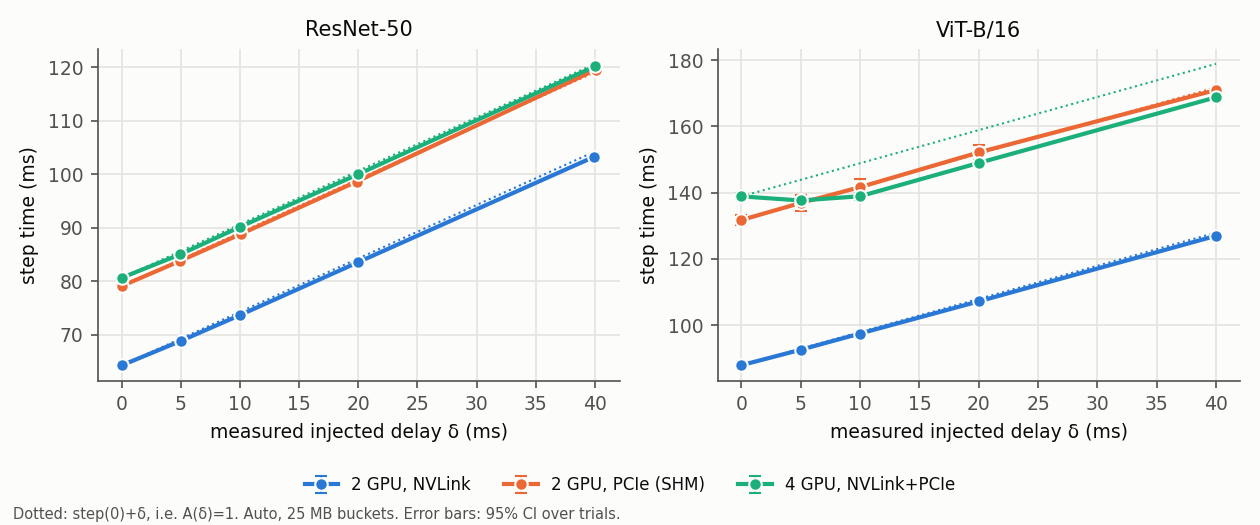
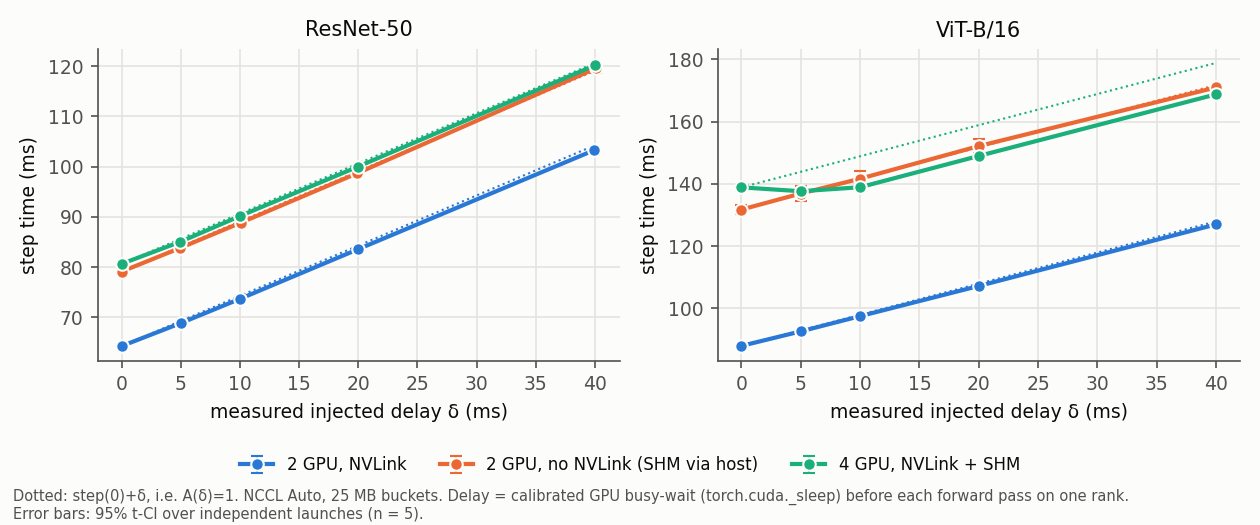
Correct figure labels and captions; plotted data unchanged
- Overlap figure: label the metric as the fraction of NCCL-kernel time
  concurrent with compute kernels, and state that it includes waiting
  and is not a measure of hidden data transfer.
- Energy figures: "GPU-board energy" (NVML, excludes CPU, DRAM, network,
  storage); the idle-subtracted variant is not communication energy.
- Settings: non-NVLink paths are labelled as NCCL SHM through host
  memory, not PCIe.
- Bucket-size figures: shade bucket sizes where NCCL Auto chose Tree
  for most gradient all-reduces (ViT-B/16, 128 MB: 70%), computed from
  nccl_verification.csv, and caption the confound.
- Timeline: the delay rank is labelled with its actual delay instead of
  "slow" at delta = 0; caption states it is one profiled window of one
  launch. Only accepted attempts are drawn.
- Slack-model figure: marked exploratory and post hoc; H3 figure notes
  the selection bias of the best-at-delta configuration.
- Error-bar captions state the number of launches behind each figure.

All points, error bars and timeline intervals were compared before and
after: the plotted data are identical.

diff --git a/hddp/figures.py b/hddp/figures.py
@@ -1,11 +1,12 @@
 """Figures from processed tables (+ raw timelines).   python -m hddp.figures --stage final  -> results/figures/
 
-Error bars are 95% t-confidence intervals across independent trials (launches). A panel with n=1 per point
-(e.g. profiler-derived overlap when only one trial was profiled) is drawn without error bars and says so.
+Error bars are 95% t-confidence intervals across independent trials (launches). Points with fewer than two
+trials have no interval and are drawn without an error bar; the caption then says so.
 """
 import argparse
 import csv
 import json
+import textwrap
 from pathlib import Path
 
 import matplotlib
@@ -19,7 +20,9 @@ CAT = ["#2a78d6", "#eb6834", "#1baf7a", "#eda100"]  # validated categorical orde
 SEQ5 = ["#86b6ef", "#5598e7", "#2a78d6", "#1c5cab", "#0d366b"]  # ordinal blue ramp (light -> dark)
 INK, INK2, GRID = "#0b0b0b", "#52514e", "#e4e3df"
 SETTINGS = ["2gpu_nvlink", "2gpu_pcie", "4gpu"]
-SET_LABEL = {"2gpu_nvlink": "2 GPU, NVLink", "2gpu_pcie": "2 GPU, PCIe (SHM)", "4gpu": "4 GPU, NVLink+PCIe"}
+# non-NVLink paths use NCCL's shared-memory transport through host memory (NCCL_P2P_LEVEL=NVL), not PCIe P2P
+SET_LABEL = {"2gpu_nvlink": "2 GPU, NVLink", "2gpu_pcie": "2 GPU, no NVLink (SHM via host)",
+             "4gpu": "4 GPU, NVLink + SHM"}
 MODEL_LABEL = {"resnet50": "ResNet-50", "vit_b_16": "ViT-B/16"}
 ALGOS = ["Auto", "Ring", "Tree"]
 
@@ -34,7 +37,9 @@ plt.rcParams.update({
 
 def load(stage, tag=""):
     rows = []
-    for r in csv.DictReader(open(PROC / f"{stage}_conditions.csv")):
+    with open(PROC / f"{stage}_conditions.csv", newline="") as f:
+        table = list(csv.DictReader(f))
+    for r in table:
         for k, v in r.items():
             if v == "":
                 r[k] = None
@@ -56,16 +61,20 @@ def series(ax, rows, x, y, color, label, ls="-", marker="o", xkey_mean=True):
     xv = lambda r: r[f"{x}_mean"] if xkey_mean and r.get(f"{x}_mean") is not None else r[x]
     rows = sorted([r for r in rows if r.get(f"{y}_mean") is not None], key=xv)
     if not rows:
-        return
+        return None
     xs = [xv(r) for r in rows]
     ys = [r[f"{y}_mean"] for r in rows]
-    es = [r.get(f"{y}_ci95") or 0 for r in rows]
+    es = [r.get(f"{y}_ci95") or 0 for r in rows]  # no interval (n < 2) -> no error bar
     ax.errorbar(xs, ys, yerr=es, color=color, label=label, ls=ls, marker=marker, capsize=3, elinewidth=1,
                 markeredgecolor="#fcfcfb", markeredgewidth=1)
+    return min(int(r.get(f"{y}_n") or 0) for r in rows)
 
 
 def save(fig, name, note=None, legend_ax=None, handles=None):
-    bottom = 0.03 if note else 0.0
+    if note:  # wrap the caption to the figure width (about 18 characters per inch at 7 pt)
+        width = int(fig.get_figwidth() * 18)
+        note = "\n".join(textwrap.fill(line, width) for line in note.split("\n"))
+    bottom = (0.11 * (note.count("\n") + 1) + 0.02) / fig.get_figheight() if note else 0.0  # room for the note
     if legend_ax is not None or handles is not None:
         hs, ls = (handles, [h.get_label() for h in handles]) if handles else legend_ax.get_legend_handles_labels()
         fig.legend(hs, ls, loc="lower center", ncol=min(len(hs), 5), bbox_to_anchor=(0.5, bottom))
@@ -79,18 +88,34 @@ def save(fig, name, note=None, legend_ax=None, handles=None):
     print("wrote", FIG / f"{name}.png")
 
 
+def ci_note(ns):
+    """Caption fragment stating what the error bars are, from the per-point trial counts actually plotted."""
+    ns = [n for n in ns if n is not None]
+    if not ns:
+        return ""
+    lo, hi = min(ns), max(ns)
+    n = f"n = {lo}" if lo == hi else f"n = {lo}-{hi}"
+    extra = " Points with n = 1 have no error bar." if lo < 2 else ""
+    return f"Error bars: 95% t-CI over independent launches ({n}).{extra}"
+
+
+def join_notes(*parts):
+    return "\n".join(p for p in parts if p)
+
+
 def by_delay(rows, y, ylabel, name, ref=None, note=None, bucket=25.0, control=None):
     models = sorted({r["model"] for r in rows})
     fig, axes = plt.subplots(1, len(models), figsize=(4.2 * len(models), 3.5), squeeze=False)
+    ns = []
     for ax, m in zip(axes[0], models):
         if control:
-            series(ax, pick(control, model=m, setting="4gpu", algo="Auto", bucket=bucket),
-                   "delay_req" if y != "step_ms" else "delay_meas_ms", y, CAT[2], "4 GPU, straggler = rank 0",
-                   ls="--", marker="s")
+            ns.append(series(ax, pick(control, model=m, setting="4gpu", algo="Auto", bucket=bucket),
+                             "delay_req" if y != "step_ms" else "delay_meas_ms", y, CAT[2],
+                             "4 GPU, delay on rank 0", ls="--", marker="s"))
         for i, s in enumerate(SETTINGS):
             rs = pick(rows, model=m, setting=s, algo="Auto", bucket=bucket)
-            series(ax, rs, "delay_req" if y != "step_ms" else "delay_meas_ms", y, CAT[i],
-                   SET_LABEL[s] + (", straggler = rank 3" if control and s == "4gpu" else ""))
+            ns.append(series(ax, rs, "delay_req" if y != "step_ms" else "delay_meas_ms", y, CAT[i],
+                             SET_LABEL[s] + (", delay on rank 3" if control and s == "4gpu" else "")))
             if ref == "A1" and y == "step_ms" and rs:
                 r0 = min(rs, key=lambda r: r["delay_req"])
                 xs = [r["delay_meas_ms_mean"] for r in rs]
@@ -101,23 +126,57 @@ def by_delay(rows, y, ylabel, name, ref=None, note=None, bucket=25.0, control=No
         ax.set_title(MODEL_LABEL[m])
         ax.set_xlabel("measured injected delay δ (ms)" if y == "step_ms" else "requested delay (ms)")
         ax.set_ylabel(ylabel)
-    save(fig, name, note, legend_ax=axes[0][0])
+    save(fig, name, join_notes(note, ci_note(ns)), legend_ax=axes[0][0])
+
+
+def auto_tree_share(setting="4gpu"):
+    """{(model, bucket): fraction of logged gradient all-reduces for which NCCL Auto chose Tree} from the
+    NCCL verification logs (nccl_verification.csv)."""
+    p = PROC / "nccl_verification.csv"
+    if not p.exists():
+        return {}
+    out = {}
+    with open(p, newline="") as f:
+        for r in csv.DictReader(f):
+            if r["setting"] == setting and r["algo_requested"] == "Auto":
+                sel = json.loads(r["allreduce_selected"])
+                tot = sum(sel.values())
+                out[(r["model"], float(r["bucket"]))] = sum(v for k, v in sel.items() if k.startswith("Tree")) / tot
+    return out
+
+
+def mark_algorithm_switch(ax, model, setting, algo):
+    """Shade bucket sizes at which NCCL Auto chose Tree for most bucket all-reduces: there, a bucket-size effect
+    is confounded with a change of the collective algorithm. Returns a caption fragment."""
+    if algo != "Auto":
+        return ""
+    hits = sorted((b, f) for (m, b), f in auto_tree_share(setting).items() if m == model and f > 0.5)
+    for b, _ in hits:
+        ax.axvspan(b / 1.25, b * 1.25, color=GRID, alpha=0.7, zorder=0, lw=0)
+        ax.annotate("Auto → Tree", (b, 1), xycoords=("data", "axes fraction"), ha="center", va="top",
+                    fontsize=7, color=INK2)
+    others = [f for (m, b), f in auto_tree_share(setting).items() if m == model and f <= 0.5]
+    return "".join(f"{MODEL_LABEL[model]}, NCCL Auto: at {b:g} MB NCCL chose Tree for {100 * f:.0f}% of logged "
+                   f"gradient all-reduces (≤ {100 * max(others, default=0):.0f}% at the other sizes), so the "
+                   f"shaded point mixes a bucket-size and an algorithm effect." for b, f in hits)
 
 
 def by_bucket(rows, y, ylabel, name, setting="4gpu", algo="Auto"):
     models = sorted({r["model"] for r in rows})
     fig, axes = plt.subplots(1, len(models), figsize=(4.2 * len(models), 3.3), squeeze=False)
     delays = sorted({r["delay_req"] for r in rows})
+    ns, notes = [], []
     for ax, m in zip(axes[0], models):
         for i, d in enumerate(delays):
-            series(ax, pick(rows, model=m, setting=setting, algo=algo, delay_req=d), "bucket", y,
-                   SEQ5[i % len(SEQ5)], f"δ={d:g} ms", xkey_mean=False)
+            ns.append(series(ax, pick(rows, model=m, setting=setting, algo=algo, delay_req=d), "bucket", y,
+                             SEQ5[i % len(SEQ5)], f"δ={d:g} ms", xkey_mean=False))
         ax.set_xscale("log", base=2)
         ax.set_xticks([1, 4, 16, 25, 64, 128], ["1", "4", "16", "25", "64", "128"])
         ax.set_title(f"{MODEL_LABEL[m]} — {SET_LABEL[setting]}, NCCL {algo}")
         ax.set_xlabel("DDP bucket_cap_mb")
         ax.set_ylabel(ylabel)
-    save(fig, name, legend_ax=axes[0][0])
+        notes.append(mark_algorithm_switch(ax, m, setting, algo))
+    save(fig, name, join_notes(*notes, ci_note(ns)), legend_ax=axes[0][0])
 
 
 def algo_cmp(rows, name, setting="4gpu"):
@@ -125,18 +184,21 @@ def algo_cmp(rows, name, setting="4gpu"):
     delays = sorted({r["delay_req"] for r in rows})
     dsel = [delays[0], delays[-1]]
     fig, axes = plt.subplots(2, len(models), figsize=(4.2 * len(models), 6), squeeze=False)
+    ns = []
     for j, m in enumerate(models):
         for i, d in enumerate(dsel):
             ax = axes[i][j]
             for k, a in enumerate(ALGOS):
-                series(ax, pick(rows, model=m, setting=setting, algo=a, delay_req=d), "bucket", "throughput",
-                       CAT[k], a, xkey_mean=False)
+                ns.append(series(ax, pick(rows, model=m, setting=setting, algo=a, delay_req=d), "bucket",
+                                 "throughput", CAT[k], a, xkey_mean=False))
             ax.set_xscale("log", base=2)
             ax.set_xticks([1, 4, 16, 25, 64, 128], ["1", "4", "16", "25", "64", "128"])
             ax.set_title(f"{MODEL_LABEL[m]} — δ={d:g} ms ({SET_LABEL[setting]})")
             ax.set_xlabel("DDP bucket_cap_mb")
             ax.set_ylabel("throughput (img/s)")
-    save(fig, name, legend_ax=axes[0][0])
+    save(fig, name, join_notes("Auto = NCCL's own choice (Ring for most bucket all-reduces here; see "
+                               "nccl_verification.csv). Ring/Tree = forced with NCCL_ALGO; protocol not forced.",
+                               ci_note(ns)), legend_ax=axes[0][0])
 
 
 def homo_vs_het(stage, name):
@@ -160,23 +222,24 @@ def homo_vs_het(stage, name):
                         yerr=[r.get("throughput_ci95") or 0 for _, r, _ in pts], color=col, marker=mk, label=lab,
                         capsize=3, elinewidth=1, markeredgecolor="#fcfcfb", ls="-" if k == 0 else ":")
             if k == 1:
-                for (d, r, c), h in zip(pts, hs):
+                for d, r, c in pts:
                     ax.annotate(c + ("" if c != homo else " (same)"), (d, r["throughput_mean"]),
                                 textcoords="offset points", xytext=(4, 6), fontsize=7, color=INK2)
         ax.set_xlabel("injected delay (ms)")
         ax.set_ylabel("throughput (img/s)")
         ax.set_title(f"{MODEL_LABEL[m]} — {SET_LABEL[s]}\nhomogeneous-optimal: {homo}", fontsize=9)
-    save(fig, name, "Configs = (NCCL algorithm / bucket_cap_mb). Error bars: 95% CI over trials.",
-         legend_ax=axes[0][0])
+    save(fig, name, "Configs = (NCCL algorithm / bucket_cap_mb). Error bars: 95% CI over launches (n = 4-5).\n"
+         "The best configuration at each δ is selected from the same data (winner's curse); it is not "
+         "independently validated.", legend_ax=axes[0][0])
 
 
 def timeline(stage, name, setting="4gpu", bucket=25):
-    recs = []
-    for line in open(RAW / f"{stage}.jsonl"):
-        r = json.loads(line)
-        if r["type"] == "cond" and r.get("setting") == setting and r["bucket"] == bucket and \
-                any("timeline" in k for k in r["ranks"]):
-            recs.append(r)
+    from hddp.analyze import attempt_flags
+    with open(RAW / f"{stage}.jsonl") as f:
+        rows = [json.loads(line) for line in f]
+    good = attempt_flags(rows)["good"]  # never draw a timeline from an excluded attempt
+    recs = [r for r in rows if r["type"] == "cond" and r.get("setting") == setting and r["bucket"] == bucket
+            and (r["launch_id"], r.get("attempt")) in good and any("timeline" in k for k in r["ranks"])]
     if not recs:
         print("no timeline data")
         return
@@ -200,22 +263,25 @@ def timeline(stage, name, setting="4gpu", bucket=25):
                           if c == cls and s + off < 2.2 * step]
                     y = k["rank"] * 4 + lane
                     ax.broken_barh(iv, (y, 0.85), color=colors[cls])
+            role = (f" (delayed {d:g} ms)" if d else " (delay rank, δ = 0)")
             ax.set_yticks([k * 4 + 1.4 for k in range(r["world"])],
-                          [f"rank {k}" + (" (slow)" if k == r["straggler_rank"] else "") for k in range(r["world"])])
+                          [f"rank {k}" + (role if k == r["straggler_rank"] else "") for k in range(r["world"])])
             ax.set_xlim(0, 2.2 * step / 1000)
             ax.invert_yaxis()
             ax.grid(axis="y", visible=False)
             ax.set_title(f"{MODEL_LABEL[m]} — {SET_LABEL[setting]}, {bucket} MB, Auto, δ={d:g} ms")
             ax.set_xlabel("time (ms, profiler window)")
     from matplotlib.patches import Patch
-    save(fig, name, "Lanes per rank: compute / NCCL / delay. torch.profiler (CUPTI) kernel intervals, host clock.",
+    save(fig, name, "Lanes per rank: compute / NCCL / injected delay. torch.profiler (CUPTI) kernel intervals, host "
+         "clock.\nOne profiled window of one launch (trial 0) per panel: an illustration, not an average. "
+         "NCCL lanes include time NCCL kernels spend waiting for peers.",
          handles=[Patch(color=colors["c"], label="compute kernels"), Patch(color=colors["n"], label="NCCL kernels"),
                   Patch(color=colors["d"], label="injected delay (spin)")])
 
 
 def slack_scatter(stage, name):
-    rows = [r for r in csv.DictReader(open(PROC / f"{stage}_trials.csv"))
-            if r.get("A") and r.get("A_slack_model") and r["instrument"] == "1"]
+    with open(PROC / f"{stage}_trials.csv", newline="") as f:
+        rows = [r for r in csv.DictReader(f) if r.get("A") and r.get("A_slack_model") and r["instrument"] == "1"]
     if not rows:
         return
     fig, ax = plt.subplots(figsize=(4.4, 4.0))
@@ -229,8 +295,9 @@ def slack_scatter(stage, name):
     ax.set_ylim(lim)
     ax.set_xlabel("slack-model prediction  max(0, δ − slack) / δ")
     ax.set_ylabel("measured A(δ)")
-    ax.set_title("Post-hoc slack model vs. measured A (all trials)")
-    save(fig, name, "slack = straggler's δ=0 wait − least-waiting rank's wait. Dashed: y = x.",
+    ax.set_title("Exploratory post-hoc slack model vs. measured A")
+    save(fig, name, "slack = delayed rank's δ=0 wait − least-waiting rank's wait. Dashed: y = x.\n"
+         "Formulated after the pilot; descriptive, not a calibrated or causal model. One point per trial.",
          legend_ax=ax)
 
 
@@ -243,18 +310,29 @@ def main():
     st = args.stage
     FIG = Path(args.outdir)
     rows = load(st)
+    delay = "Delay = calibrated GPU busy-wait (torch.cuda._sleep) before each forward pass on one rank."
+    energy = "GPU-board energy from NVML, summed over the GPUs of the job; excludes CPU, DRAM, network and storage."
     by_delay(rows, "step_ms", "step time (ms)", "fig01_step_time_vs_delay", ref="A1",
-             note="Dotted: step(0)+δ, i.e. A(δ)=1. Auto, 25 MB buckets. Error bars: 95% CI over trials.")
-    by_delay(rows, "throughput", "throughput (img/s)", "fig02_throughput_vs_delay")
+             note=f"Dotted: step(0)+δ, i.e. A(δ)=1. NCCL Auto, 25 MB buckets. {delay}")
+    by_delay(rows, "throughput", "throughput (img/s)", "fig02_throughput_vs_delay",
+             note="NCCL Auto, 25 MB buckets.")
     ctrl = load(st, tag="strag0")
     by_delay(rows, "A", "amplification A(δ)", "fig03_amplification_vs_delay", ref="one", control=ctrl,
-             note="A(δ) = (step(δ) − step(0)) / measured δ, paired within each launch. Dashed: A = 1.")
-    by_delay(rows, "energy_J_step", "energy (J/step, all GPUs)", "fig04a_energy_vs_delay")
-    by_delay(rows, "energy_idle_sub_J_step", "idle-subtracted energy (J/step)", "fig04b_energy_idle_sub_vs_delay")
-    by_delay(rows, "overlap_ratio_fast", "comm/compute overlap ratio (fast ranks)", "fig05_overlap_vs_delay",
-             note="Profiler-derived; see docs/methodology.md for the definition.")
+             note="A(δ) = (step(δ) − step(0)) / measured δ, paired within each launch. Dashed: A = 1 "
+                  "(delay passes through one-for-one).")
+    by_delay(rows, "energy_J_step", "GPU-board energy (J/step, sum over GPUs)", "fig04a_energy_vs_delay",
+             note=energy)
+    by_delay(rows, "energy_idle_sub_J_step", "GPU-board energy above idle (J/step)",
+             "fig04b_energy_idle_sub_vs_delay",
+             note="Measured GPU-board energy minus each GPU's idle power × window time. Includes compute, "
+                  "communication and waiting above idle; it is not a measure of communication energy.")
+    by_delay(rows, "overlap_ratio_fast", "fraction of NCCL-kernel time\nconcurrent with compute",
+             "fig05_overlap_vs_delay",
+             note="Fraction of NCCL-kernel residency (including waiting for peers) during which a non-NCCL, non-delay "
+                  "kernel runs on the same GPU; mean over non-delayed ranks, from torch.profiler. Not a measure of "
+                  "hidden data transfer.")
     by_bucket(rows, "throughput", "throughput (img/s)", "fig06_bucket_vs_throughput")
-    by_bucket(rows, "energy_J_step", "energy (J/step, all GPUs)", "fig07_bucket_vs_energy")
+    by_bucket(rows, "energy_J_step", "GPU-board energy (J/step, sum over GPUs)", "fig07_bucket_vs_energy")
     by_bucket(rows, "A", "amplification A(δ)", "fig07b_bucket_vs_amplification")
     algo_cmp(rows, "fig08_algo_comparison")
     homo_vs_het(st, "fig09_homo_vs_het_optimal")

diff --git a/tests/test_figures.py b/tests/test_figures.py
@@ -1,0 +1,30 @@
+"""Figure captions are derived from the data they describe."""
+import matplotlib
+
+matplotlib.use("Agg")
+import matplotlib.pyplot as plt  # noqa: E402
+
+from hddp import figures  # noqa: E402
+
+
+def test_auto_algorithm_switch_is_read_from_verification_logs():
+    share = figures.auto_tree_share()
+    assert share[("vit_b_16", 128.0)] == 0.7  # 7 of 10 logged gradient all-reduces used Tree
+    assert all(f < 0.07 for (m, b), f in share.items() if (m, b) != ("vit_b_16", 128.0))
+    fig, ax = plt.subplots()
+    note = figures.mark_algorithm_switch(ax, "vit_b_16", "4gpu", "Auto")
+    assert "at 128 MB NCCL chose Tree for 70%" in note
+    assert figures.mark_algorithm_switch(ax, "resnet50", "4gpu", "Auto") == ""
+    assert figures.mark_algorithm_switch(ax, "vit_b_16", "4gpu", "Tree") == ""
+    plt.close(fig)
+
+
+def test_error_bar_caption_reflects_sample_size():
+    assert figures.ci_note([5, 4, 5]) == "Error bars: 95% t-CI over independent launches (n = 4-5)."
+    assert "Points with n = 1 have no error bar." in figures.ci_note([1, 5])
+    assert figures.ci_note([None]) == ""
+
+
+def test_non_nvlink_setting_is_not_labelled_pcie_p2p():
+    assert "SHM" in figures.SET_LABEL["2gpu_pcie"] and "PCIe" not in figures.SET_LABEL["2gpu_pcie"]
+    assert "SHM" in figures.SET_LABEL["4gpu"]
